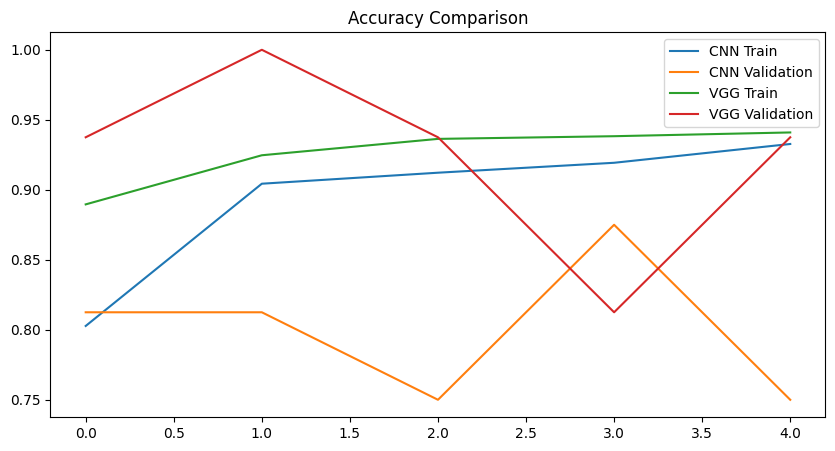
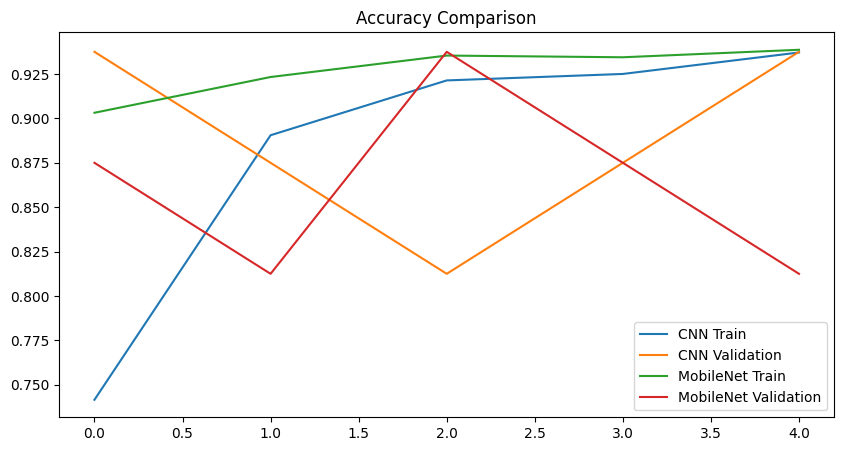
Version3

diff --git a/README.md b/README.md
@@ -13,9 +13,9 @@
 
 
 # Descrição
-Nessa quarta fase desenvolvi ferramentas que automatizam a triagem e o diagnóstico médico por meio de Processamento de Linguagem Natural (NLP) e Machine Learning. Utilizamos duas técnicas em NLP, baseado em regras e estatístico.
+Nessa quarta fase aprofundamos em visão computacional, por meio de modelos de redes neurais convulacionais CNNs.
 
-Indo além, criamos uma interface moderna com React e Vite. Também desenvolvemos e treinamos um modelo de visão computacional para a análise de exames de eletrocardiograma.
+Indo além, criei uma interface moderna com React Native para dispositivos mobiles. 
 
 ## Links Videos:
 ### Parte 1 e Parte 2: 
@@ -24,55 +24,104 @@ Indo além, criamos uma interface moderna com React e Vite. Também desenvolvemo
 
 
 # Parte 1
-Implementamos um sistema de extração de informações para interpretar relatos clínicos.
+Usando o dataset "Chest X-Ray Images (Pneumonia)" com mais de cinco mil imagens, criei um pipeline onde realizei técnicas de pré-processamento, como redimensionamento, normalização e data augmentation.
 
-Através de buscas por palavras-chave e expressões comuns (ex: "aperto no tórax", "fadiga"), o algoritmo sugere diagnósticos preliminares como Infarto ou Insuficiência Cardíaca, simulando o apoio à decisão médica.
+dataset: https://www.kaggle.com/datasets/paultimothymooney/chest-xray-pneumonia
 
-#### Como funciona:
+O dataset Chest X-Ray Pneumonia disponível publicamente no Kaggle. O conjunto contém imagens classificadas em duas categorias:
+
+- Normal
+- Pneumonia
+
+As imagens já se encontram separadas em conjuntos de treinamento, validação e teste.
+
+<img src="assets/dataset.png" widht="150">
 
 
-<img src="assets/Mapa_Ontologia.png" widht="150">
+Para Pré-Processamento as etapas realizadas foram:
+
+- Redimensionamento das imagens para 128 pixels.
+- Normalização dos pixels para o intervalo entre 0 e 1.
+- Aplicação de técnicas de aumento de dados (rotação, zoom e espelhamento horizontal).
+- Organização dos dados em conjuntos de treinamento, validação e teste.
+
+
+Redimensionei as imagens para escalas de (128,128) para facilitar o treinamento, diminuindo as escalas. A normalização acelera o treinamento e melhora a convergência. O aumento de dados reduz overfitting e melhora a capacidade de generalização do modelo.
+
+<img src="assets/pre_processamento.png" widht="150">
+
+
+Durante a análise do dataset foi identificado um desbalanceamento entre as classes. O conjunto de treinamento contém 1.341 imagens classificadas como Normal e 3.875 imagens classificadas como Pneumonia. Esse cenário pode introduzir viés no treinamento do modelo, favorecendo a classe majoritária. Para mitigar esse problema foi usada técnicas como data augmentation e ponderação de classes durante o treinamento.
+
+
+<img src="assets/distribuicao.png" widht="150">
 
 # Parte 2
 
-Agora utilizando processamento de texto com TF-IDF (Term Frequency-Inverse Document Frequency) para converter relatos médicos em vetores numéricos. Seguindo uma abordagem mais tradicional, voltada a estatistica e probabilidade, treinamos um algoritmo de Machine Learning (Scikit-learn) para classificar os pacientes entre "Baixo Risco" e "Alto Risco", permitindo uma triagem rápida e eficiente baseada na gravidade dos sintomas.
+Seguindo, no mesmo notebook python realizamos as seguintes etapas:
 
-#### Como funciona:
+- Treinamento de uma CNN simples.
+- Treinamento de uma CNN com Transfer Learning.
+- Comparação dos resultados.
+- Interface para classificação.
 
-Criamos outro programa python "Gerar_Dataset.py" para gerar um novo arquivo csv "frases_risco.csv". Esse novo dataset é necessário pois descreve de forma mais textual e natural do que o dataset usado na parte 1.
+Foram implementadas duas abordagens para classificação de imagens médicas: uma CNN construída do zero e um modelo de transfer learning utilizando MobileNetV2.
 
-<img src="assets/gerar_dataset.png" widht="150">
+O modelo CNN desenvolvido do zero possui 3.304.769 parâmetros distribuídos em 10 camadas. É composto por três camadas convolucionais (Conv2D) para extração de características, três camadas de Max Pooling para redução da dimensionalidade, uma camada Flatten para transformar em um vetor unidimensional, uma camada Dropout para reduzir o risco de overfitting e duas camadas densas (Dense) responsáveis pela classificação final. As funções de ativação utilizadas foram ReLU e Sigmoid na camada de saída, usadas para problemas de classificação binária.
+
+<img src="assets/CNN.png" widht="150">
+
+O modelo MobileNetV2 foi escolhido por apresentar uma arquitetura mais leve em comparação com outros modelos utilizados em Transfer Learning, como VGG16 e ResNet. 
+Apesar de possuir aproximadamente 3,5 milhões de parâmetros, esse número é menor do que o de arquiteturas mais complexas, permitindo tempos de treinamento reduzidos, além de menor consumo de memória. Essas características tornam o modelo especialmente adequado para aplicações com recursos computacionais limitados e para protótipos que exigem boa precisão aliada a desempenho eficiente.
 
 
-<img src="assets/teste_modelo_Logis_Regre.png" widht="150">
+<img src="assets/MobileNet.png" widht="150">
+
+ Devido ao desbalanceamento do dataset (25,71% Normal e 74,29% Pneumonia), foi aplicada ponderação de classes durante o treinamento. 
+
+
+
+### Análise das Métricas
+
+Foram avaliadas duas abordagens para a classificação das imagens médicas: uma CNN desenvolvida do zero e um modelo baseado em Transfer Learning com MobileNetV2. Os resultados obtidos são apresentados na tabela abaixo:
+
+Modelo	Accuracy	Precision	Recall	F1-Score
+CNN	87,02%	85,19%	95,90%	90,23%
+MobileNetV2	79,97%	96,82%	70,26%	81,43%
+CNN Desenvolvida do Zero
+
+A CNN apresentou o melhor desempenho geral entre os modelos avaliados, alcançando 87,02% de acurácia e 90,23% de F1-Score. O modelo também obteve um recall de 95,90%, indicando elevada capacidade de identificar corretamente os casos de pneumonia.
+
+Em aplicações médicas, o recall é uma métrica importante, pois reduz a ocorrência de falsos negativos, ou seja, casos em que pacientes com a doença seriam classificados como saudáveis. Embora a precisão tenha sido um pouco menor (85,19%), o modelo demonstrou um equilíbrio adequado entre identificação de casos positivos e confiabilidade das previsões.
+
+
+O MobileNetV2 apresentou comportamento diferente. Sua principal característica foi a alta precisão de 96,82%, indicando que quando o modelo prevê pneumonia, a probabilidade de essa classificação estar correta é muito elevada.
+
+Por outro lado, o modelo obteve um recall de apenas 70,26%, demonstrando dificuldade em identificar todos os casos positivos presentes no conjunto de teste. Isso significa que uma parcela considerável dos pacientes com pneumonia não foi detectada pelo modelo, aumentando a quantidade de falsos negativos.
+
+Como consequência, a acurácia geral (79,97%) e o F1-Score (81,43%) ficaram abaixo dos resultados obtidos pela CNN.
+
+<img src="assets/comparacao.png" widht="150">
+
+Cada modelo apresentou pontos fortes distintos:
+
+- CNN: maior acurácia, maior recall e melhor F1-Score.
+- MobileNetV2: maior precisão.
+- CNN: melhor equilíbrio entre sensibilidade e desempenho geral.
+- MobileNetV2: classificações positivas mais conservadoras e confiáveis.
+
+Embora modelos de Transfer Learning frequentemente apresentem desempenho superior em tarefas de visão computacional, neste treinamento a CNN obteve os melhores resultados, superando o MobileNetV2 em acurácia, recall e F1-Score. Isso se deve ao tempo de epócas reduzidos de treinamento.
+
 
 # Ir Além
 
-Criamos do zero uma interface web completa responsiva para a gestão da clínica cardiológica.
-Utilizamos: React + Vite + Styled Components/CSS Modules.
-
-<img src="assets/Login.png" widht="150">
-
-Dentre as Funcionalidades: 
-- Gerenciamento de estado global com Context API.
-- Autenticação simulada com persistência via LocalStorage.
-- Consumo de dados via API fake para listagem de pacientes.
-- Dashboards dinâmicos com métricas de agendamento e saúde.
-
-Usando Context e diversos hooks e componentes, criamos 4 paginas
-
-<img src="assets/pages.png" widht="150">
-<img src="assets/AuthContext.png" widht="150">
-
-De forma dinamica e simulada é possível realizar um login com autenticação, ver a lista de pacientes e marcar uma consulta.
-
-<img src="assets/Portal.png" widht="150">
-<img src="assets/agendamento.png" widht="150">
+Dentro
 
 
 # Ir Além 2
 
- Assistente de Detecção de Pneumonia
+Indo além desenvolvi um assistente de detecção de pneumonia, usando API Flask com o modelo MobileNet, usando Expo - React Native, criei a interface do app mobile.
+
 
 Aplicação composta por:
 - **backend/** — API Flask com modelo MobileNet (TensorFlow/Keras)